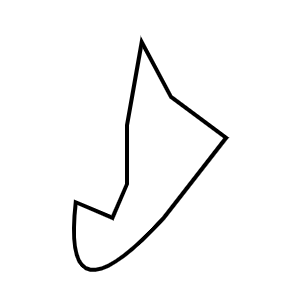
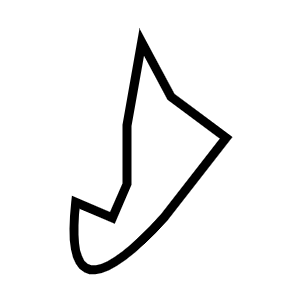
Put in new shard images.

Changed region(s): [[0.21, 0.09, 0.78, 0.93]]

diff --git a/Assets/Scripts/Other/MaskUI.cs b/Assets/Scripts/Other/MaskUI.cs
@@ -1,6 +1,7 @@
 using System.Collections;
 using System.Collections.Generic;
 using UnityEngine;
+using UnityEngine.UI;
 
 public class MaskUI : MonoBehaviour {
 
@@ -11,13 +12,37 @@ public class MaskUI : MonoBehaviour {
     private GameObject shardPrefab = default;
 
     [SerializeField]
+    private Sprite pickedUpShardSprite = default;//not picked up is what prefab already has
+
+    [SerializeField]
     private float spaceBetweenImages = 30;
 
+    private List<GameObject> shards = new List<GameObject>();
+
+    private static MaskUI instance;
+
+    private void Awake() {
+        instance = this;
+    }
+
     private void Start() {
+        Refresh();
+    }
+
+    public static void Refresh() {
+        while (instance.shards.Count > 0) {
+            Destroy(instance.shards[0]);
+        }
+        instance.shards.Clear();
+
+        int partsPickedUp = MaskPart.NumberOfPickedUpMaskPartsInScene();
         for (int i = 0; i < MaskPart.NumberOfMaskPartsInScene(); i++) {
-            GameObject shard = Instantiate(shardPrefab, shardContainer);
+            GameObject shard = Instantiate(instance.shardPrefab, instance.shardContainer);
             RectTransform rt = shard.GetComponent<RectTransform>();
-            rt.anchoredPosition = new Vector2(spaceBetweenImages * i, 0);
+            rt.anchoredPosition = new Vector2(instance.spaceBetweenImages * i, 0);
+            if (i < partsPickedUp) {
+                rt.GetComponent<Image>().sprite = instance.pickedUpShardSprite;
+            }
         }
     }
 

diff --git a/Assets/Scripts/Level/MaskPart.cs b/Assets/Scripts/Level/MaskPart.cs
@@ -1,5 +1,6 @@
 using System.Collections;
 using System.Collections.Generic;
+using System.Linq;
 using UnityEngine;
 using UnityEngine.SceneManagement;
 
@@ -11,6 +12,8 @@ public class MaskPart : MonoBehaviour {
     private Renderer[] allChildRenderers;
 
     private static List<MaskPart> allMaskPartsInScene = new List<MaskPart>();
+
+    private bool pickedUp = false;
 
     private void Awake() {
         allChildRenderers = GetComponentsInChildren<Renderer>();
@@ -36,7 +39,8 @@ public class MaskPart : MonoBehaviour {
     }
 
     private void AddMaskPartAndMakeInvisible() {
-        //update UI
+        MaskUI.Refresh();
+        pickedUp = true;
         foreach (Renderer r in allChildRenderers) {
             r.enabled = false;
         }
@@ -48,6 +52,10 @@ public class MaskPart : MonoBehaviour {
 
     public static int NumberOfMaskPartsInScene() {
         return allMaskPartsInScene.Count;
+    }
+
+    public static int NumberOfPickedUpMaskPartsInScene() {
+        return allMaskPartsInScene.Count(mp => mp.pickedUp);
     }
 
 }
